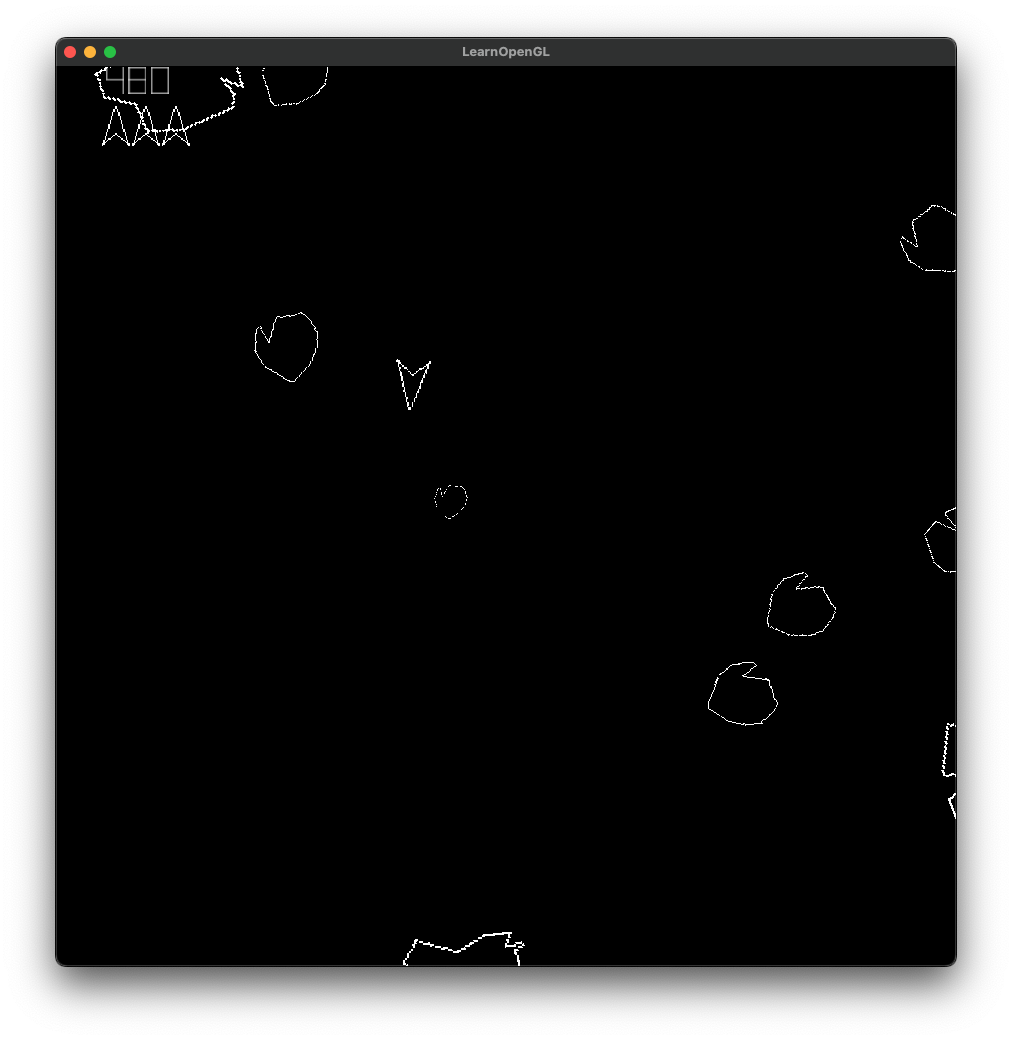
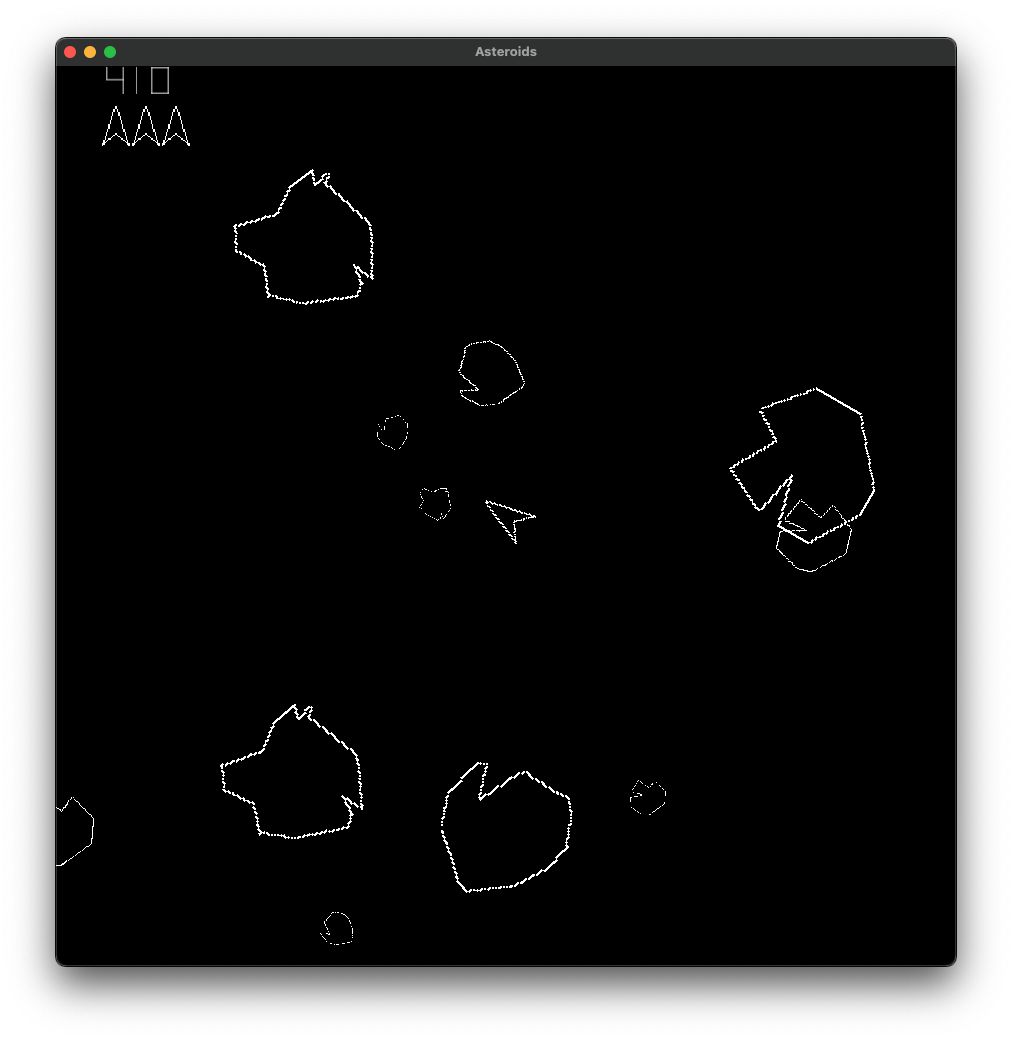
Change window title

diff --git a/src/main.cpp b/src/main.cpp
@@ -26,7 +26,7 @@ int main()
 #endif
 
     
-    game.window = glfwCreateWindow(WINDOW_WIDTH, WINDOW_HEIGHT, "LearnOpenGL", NULL, NULL);
+    game.window = glfwCreateWindow(WINDOW_WIDTH, WINDOW_HEIGHT, "Asteroids", NULL, NULL);
     if (game.window == NULL)
     {
         std::cout << "Failed to create GLFW window" << std::endl;
